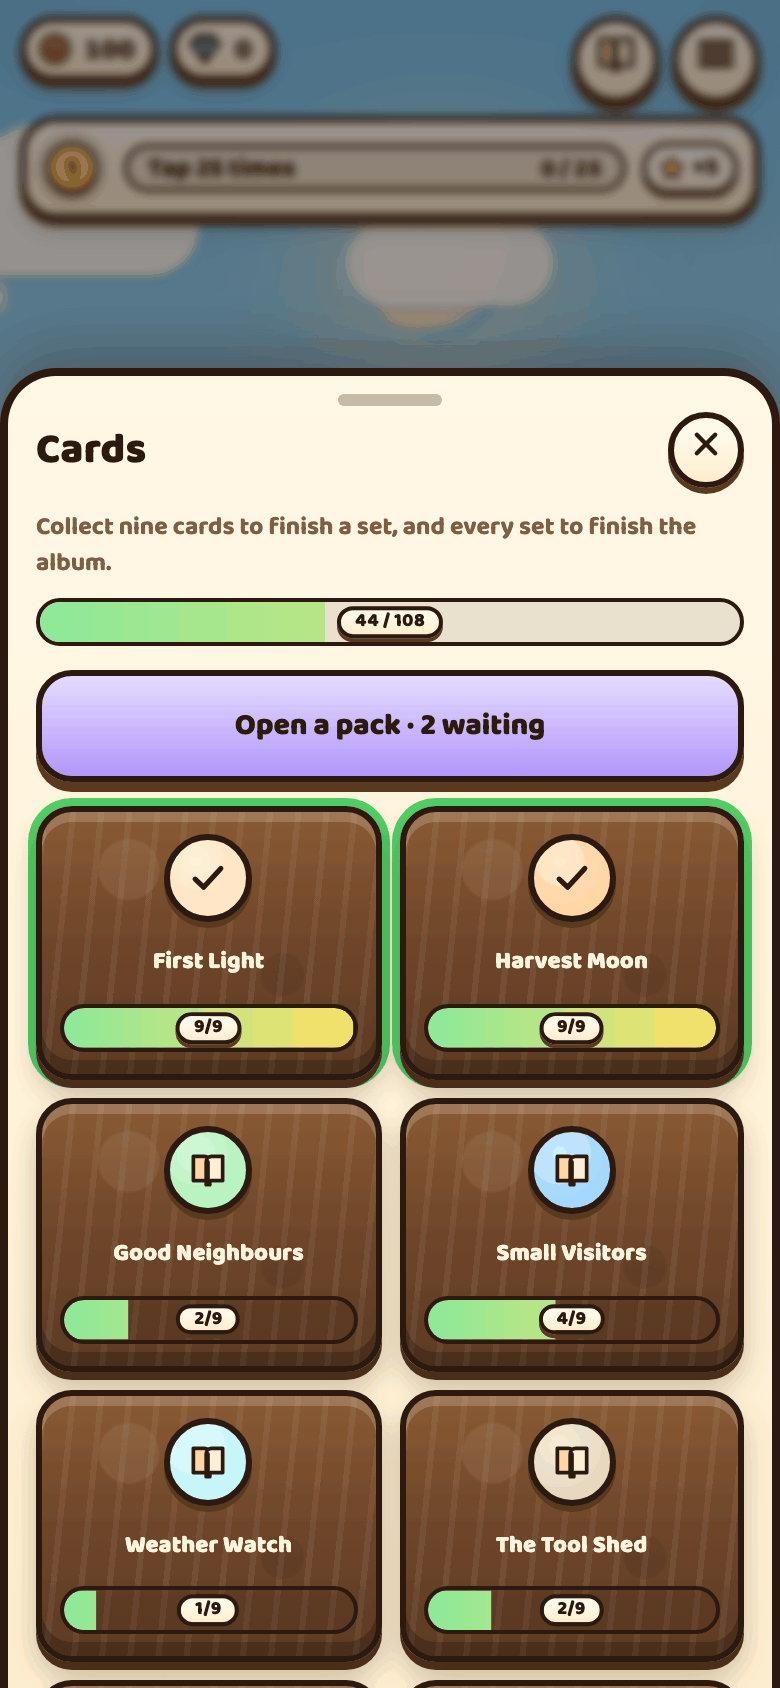
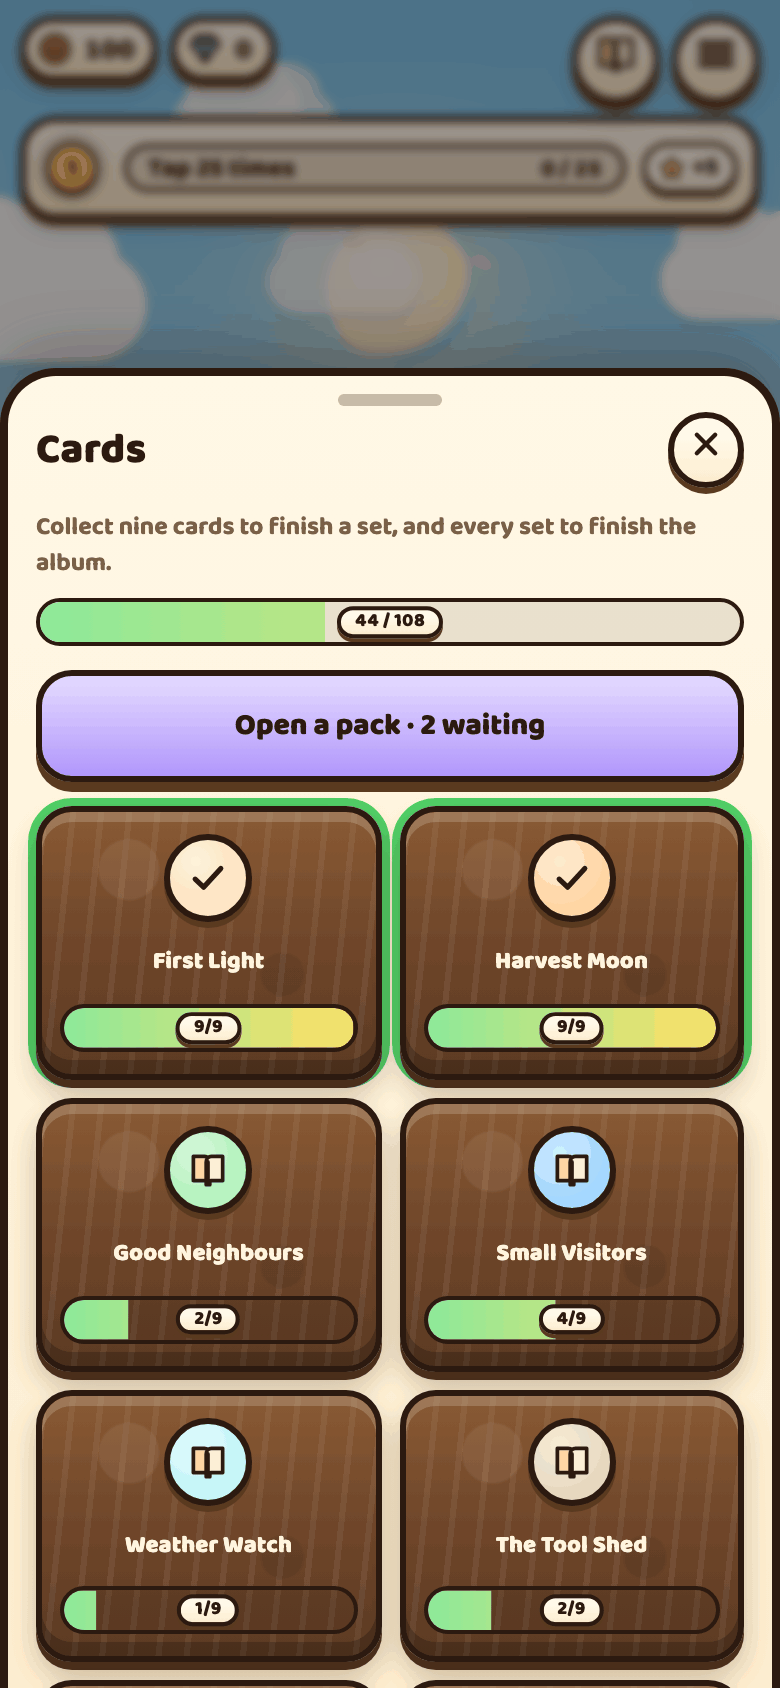
Write the handoff, and rephotograph every screen with tonight's work in it.
Step 5 of the definition of done, derived from steps 1-4 rather than from
memory — the nine decision-log entries, the doc updates and the known-issues
entries were all written as their commits landed.

- `docs/HANDOFF.md`: what the round did, each item's commit so the punch list
  can be pruned, the morning script ordered by what needs the owner's senses
  (listen, then look, then tap), and the two decisions made in their absence
  with the one line each takes to reverse.
- Four new traps, none of which threw or failed a check: a class name silently
  taken by an absolute layer, equal margins that stop cancelling when a grid
  item overflows, `display:none` on a grid row growing its container in one
  state only, and two seasons each measuring their own room.
- And one test that passed for the wrong reason, with what it now asserts.
- `node tools/capture-screens.js`: 28/28 rephotographed, so the Unity team's
  gallery shows Fall's aligned board, its Collect All moment and the sky's chip.
- `node tools/wiki-sync.js`: 48 documents mirrored, 940 links checked.

diff --git a/docs/HANDOFF.md b/docs/HANDOFF.md
@@ -1,6 +1,6 @@
 # Handoff — Current State and Next Steps
 
-Last updated: **2026-08-30**
+Last updated: **2026-08-31** (the overnight fix round)
 
 Read this first if you're picking up the project cold. It covers where things stand, what's been
 decided, and what to do next. Update it at the end of any significant session.
@@ -1235,6 +1235,126 @@ re-keyed in the same slice. Scope held as one piece, as promised.
 
 ## The current task
 
+**THE OVERNIGHT FIX ROUND IS DONE — nine items off the punch list, all nine shipped and pushed.**
+Two of them want the owner's *ear* before anything else, and two carry a decision made in their
+absence that is theirs to overturn. The morning script is below; do it in that order, because the
+first two things need a quiet room and the rest do not.
+
+**Each item's commit, so the punch list can be pruned in the morning:**
+
+| # | What | Commit |
+| --- | --- | --- |
+| **#3** | Three sound channels, each a slider and a mute | `b196d3c` |
+| **#8** | The gem chip loses its countdown | `ef19afc` |
+| **#4** | The app icon becomes the talking flower | `e6a0540` |
+| **#6 + #7** | Fall's board aligned, its flower resized, the pill above, Collect All below | `d4687c3` |
+| **#5** | The Turn-jump cheat | `9297273` |
+| **#1** | The Thunderstorm becomes rain plus thunder | `3f4de68` |
+| **#9** | The daily changelog | `ba63379` |
+| **#2** | The sky's chip | `abb55f1` |
+
+`docs/43-punch-list.md` was deliberately **not** touched — it belongs to the agent who keeps it.
+
+**One thing was found rather than done.** The working tree held a complete, uncommitted frame-rate
+instrument from another session — `ui-perf.js`, `tools/skybench.js`, a `.scenery-warp` box and a
+three-state sunbreak fade. It passed every check and the game booted clean, so it went in on its own
+commit (`bc74b3b`) before the round started, rather than being swept into nine commits that are not
+about it. **It is not this round's work and has not been reviewed by anyone.**
+
+### The morning script — ears first, then eyes, then thumbs
+
+**LISTEN. Do this one in a quiet room, with the phone, before anything else.**
+
+1. **The storm.** Menu → Settings → Developer tools → hold the weather on **Thunderstorm**, and sit
+   in it for a full minute. It should now sound like *rain* — a hiss with drops in it — with weight
+   underneath, and it should **breathe** rather than sit on one note. Measured above 300 Hz, which is
+   the band a phone can actually reproduce, it used to swing 0.59 dB across twenty seconds and now
+   swings 2.27 dB; rain swings 2.68. It is also a hair quieter than the rain, which is the honest
+   answer to "overbearing" — note that turning it *down* was the one thing that would not have
+   helped, because it already measured quieter than the rain. What was missing was the rain.
+   Re-measure any time with `node tools/bedbench.js`.
+2. **The three sliders.** Settings, at the top: **Sound effects · Ambience · Music**, each with a
+   mute and a level. **They should sound exactly like yesterday until you touch one** — that is
+   deliberate, and it is why the ambient house level is written as 0.36 rather than 0.5. Drag
+   Ambience down while a sky is running and it should fade under the effects, not with them. Mute
+   Music and the tune stops; drag Music to zero instead and it goes silent but keeps running, so it
+   comes back the moment you drag it up.
+
+**LOOK.**
+
+3. **The icon.** Add the game to your home screen (or re-add it — an app already installed keeps the
+   operating system's copy of the old picture). It is the pink flower with the face now, the one the
+   game opens on, not the yellow bloom. It was checked at 40 px, which is where a face has to
+   survive.
+4. **Fall's board.** Turn once, then swipe between the garden and Fall and back, watching the board.
+   **It should not move and it should not resize** — the two are the same square in the same place
+   now, at 390×844, 375×667 and 390×640, measured to the pixel. Fall's flower is Summer's flower and
+   has its glow back.
+5. **Fall's Collect All moment.** Fill and ripen the bed (Developer tools has both buttons). The pill
+   above the board says *The whole bed — +50%*; below it, a gold **Collect all · +33,600**. Tap it
+   once: confetti, coins, one sound, and a toast that says the bonus was applied. **The ripe Century
+   Bloom is left standing** — that is the decision, and it is in the table below.
+6. **The calmer plots.** Plant a few things and watch the top-right of each. Just a gem and a price.
+   No second number counting down on eight plots at once.
+
+**TAP.**
+
+7. **The Turn jump.** Developer tools → *Jump ahead* → **+3 Turns (Winter's gate)**. It earns its way
+   there through the real faucet and runs the real Turn three times, so expect a **bare garden with
+   Saved Seeds banked** — that is a prestige, three times, not a bug. Then look at Winter's tab: it
+   says *Soon* rather than *Turn 3*, and tapping it reads **"Still growing in"**. That plate has
+   never been reachable before. **It opens the gate, not a garden** — Spring and Winter are not
+   built, and this cheat cannot conjure them.
+8. **The weather chip.** Hold any sky that is not Clear. A tinted chip appears at the left of the row
+   under the quest bar with the sky's name. **Tap it** for one paragraph about what that sky is
+   doing. Read the wording carefully: it promises a **chance**, never a payout, and that is
+   deliberate — see the table below.
+9. **What's New.** Menu → *What's New*. It now opens the **changelog** — a dated list of what changed
+   — with the Garden Year announcement as a tappable row at the top. It also puts itself up on its
+   own, at most once a day, never beside an announcement and never to a brand-new player.
+
+### The two decisions made in your absence, both one line to reverse
+
+| Decision | What was chosen, and why | To overturn |
+| --- | --- | --- |
+| **The weather chip has no timer** | You asked for one. A countdown to the end of this sky is also a countdown to when the next one starts, and paired with the flower's spoken forecast it rebuilds most of the forecast panel *you* ruled out this morning — "the garden stops being a place and becomes an optimisation problem". A tinted chip says the sky is doing something without becoming a clock to plant against. | Everything is in place. **The trap:** `weatherSlotRemaining()` measures the **slot**, and a bought or held sky outlasts its slot — a chip that trusted it would count to zero and then keep going. |
+| **A storm keeps some rumble** | The item left it open: cosy rain plus thunder cracks, or rain with weight still under it. The roll band is kept at half its old height and the sub at 0.45, so a storm still reads as different from a rain. | Two numbers in `BUILD.storm` in `audio.js`: `rollG.gain` and `deepG.gain`. Take them toward zero for pure cosy rain, then re-run `node tools/bedbench.js`. |
+| **Collect All leaves a ripe Century Bloom** | It is outside the bed in both directions — it neither blocks nor collects the windfall — so the fortnight showpiece stays yours to pick. | One `def.century` guard in `fallHarvestAll()`, and the sim-test that asserts it. |
+
+### What this round got wrong first, and what caught each one
+
+Four, and **not one of them threw, failed a check, or looked wrong in a screenshot.**
+
+1. **The weather chip was a full-screen box that swallowed every tap on the garden.** `.chip.wx`
+   picked up `.wx{position:absolute;inset:0}`, the Sky Pass's weather layer. It measured 390×844
+   while looking perfectly correct in the rail; the first probe tap summoned a Wonder Effect from the
+   flower underneath it. Renamed to `.chip.sky` — **which is also taken**, by the scenery's sky, and
+   did exactly the same thing. It is `.chip.weather` now. The recorded "check for an existing class
+   before naming a new one" rule earned itself twice in ten minutes, and the check that found it was
+   `getBoundingClientRect()`, not the eye.
+2. **Equal margins looked like the fix for Fall's offset and were not.** A margin on one side of a
+   `place-items:center` child shifts it by half of itself — that was the 23px. Equal margins cancel
+   *while they fit*: a grid falls back to start-alignment the moment an item overflows its track, so
+   on a 640-tall screen the same trick pushed the board down by a whole strip instead of half of one.
+   No margin at all is the only version that holds at every height.
+3. **`display:none` on the rail broke the very alignment it was added to protect.** Hiding a grid row
+   in Fall gives its height back to `.stage` **in Fall only**, and a taller stage in one season is
+   the exact fault the round existed to remove. `visibility:hidden` keeps the box.
+4. **The tooltip's own `white-space` lost the cascade.** `.coach .tip` and `.weather-tip .tip` are
+   the same specificity, so source order decides — written up beside the rail, the bubble ran off
+   both edges of the phone in one unwrapped line. Same lesson the reduced-motion block already
+   records.
+
+**And one test that passed for the wrong reason and had to be rewritten.** The Century Bloom
+assertion in `fallHarvestAll()`'s group survived a sabotage that deliberately took the Century
+Bloom — because a Century Bloom never carries a `windfall` mark, so the explicit guard is belt and
+braces rather than the thing doing the work. It now asserts the fixture is genuinely ripe first, and
+the sabotage that must go red is the *realistic* wrong implementation: a loop over everything ripe.
+**Every new group this round was broken on purpose before it was believed** — three sabotages each
+for Collect All, the Turn jump and the changelog.
+
+### The round before this one — the hamburger menu
+
 **THE HAMBURGER MENU IS BUILT AND WAITING FOR THE OWNER'S REVIEW.** The wireframe gate opened first
 (`tools/menu-spike.html`, five frames), the owner approved all six questions on 2026-08-31 and added
 one condition — *"this thing needs to be somewhat modular where we can move things in and out"* — and
@@ -2133,6 +2253,55 @@ That inversion was inherited from the frozen economy port; it is fixed. What rem
 the Orchid throughput dip and the identical Aurora/Celestial rates.
 
 ## Traps in this codebase
+
+**A class name in a 250KB stylesheet is taken until you have PROVED it is not, and the collision is
+silent AND invisible.** `.chip.wx` and then `.chip.sky` both picked up a
+`position:absolute; inset:0` layer — the Sky Pass's weather layer and the scenery's sky. The chip
+looked perfectly correct in its row while measuring 390×844 and swallowing every tap on the garden;
+the first automated tap on it summoned a Wonder Effect from the flower underneath. Nothing threw,
+nothing failed a check, and a screenshot of the rail was reassuring. **Grep for the bare name first**
+(`grep -cE '\.name([{ ,:.]|$)' style.css`) and **measure the box after**, because the rendered
+picture will not tell you.
+
+**A margin on one side of a `place-items:center` child shifts it by HALF of itself, and equal margins
+only cancel while they fit.** `.fl-wrap{margin-bottom:46px}` is where Fall's measured 23px board
+offset came from. The obvious repair — the same margin on both sides — works until the item overflows
+its track, at which point a grid falls back to start-alignment and the child moves by a whole strip
+instead of half of one. On a 640-tall screen that turned a 23px error into a 52px one. **If two
+things must line up, give them no margin and let whatever hangs off them be positioned absolutely.**
+
+**Hiding a grid row in ONE state gives its height back to the container in that state only.**
+`.in-fall .rail{display:none}` was added to give the bed chip its band on a short screen and
+immediately broke the board alignment it was there to protect, because `.stage` grew in Fall and not
+in Summer. `visibility:hidden` keeps the box. Anything that hides a row conditionally has to ask what
+the row's height was holding up.
+
+**Two seasons that must look identical cannot each measure their own room.** Summer sized its board
+from `.stage` minus the **measured** creature yard; Fall sized its from its own frame minus a chip
+strip — and Fall hides the creatures, so that node measures zero there. Two formulas, two answers,
+and they agreed at 390×844 only because width happened to bind at that size. `UI.boardSide()` is the
+single function both call now, and it reads the yard's **reservation** (`.stage`'s bottom padding)
+rather than the node. **`--yard-h` is therefore load-bearing for alignment**: anything that changes
+how that room is reserved silently resizes one season's board against the other's.
+
+**A guard can be belt-and-braces while its test looks load-bearing.** `fallHarvestAll()` carries an
+explicit `def.century` check, and a sabotage that removed it **passed every assertion** — because a
+Century Bloom never carries a `windfall` mark, so the real exclusion happens a line earlier. The test
+was asserting a ruling that nothing in the code path could violate. Sabotage with the *realistic*
+wrong implementation (here, a loop over everything ripe), not with the removal of the line you just
+wrote, and assert the fixture itself is in the state you think it is.
+
+**`tools/probe.js`'s documented lawn point no longer starts a season swipe.** `drag:@30,600:...` at
+390×844 is in the usage header as "the lawn", and it does nothing now — verified against `HEAD` as
+well, so it is not a regression from any recent change. The season tabs
+(`tap:[data-season="fall"]`) work and are how everything in the fix round was driven. Anything
+relying on that drag point should re-derive it before believing a red result.
+
+**A long dev sheet scrolls, and `tap:` cannot reach what is below the fold.** The probe taps an
+element's measured centre, and an element scrolled out of the viewport gets no event — the Turn-jump
+button reported a successful tap and did nothing. `scrollIntoView({block:'center'})` then `.click()`
+in a single `eval:` goes through the same delegated handler a thumb does.
+
 
 **A depth counter over backticks does not find a nested template literal, and the miss is silent.**
 The first backtick *inside* a template opens a new one — it can only appear inside a `${}` — so
